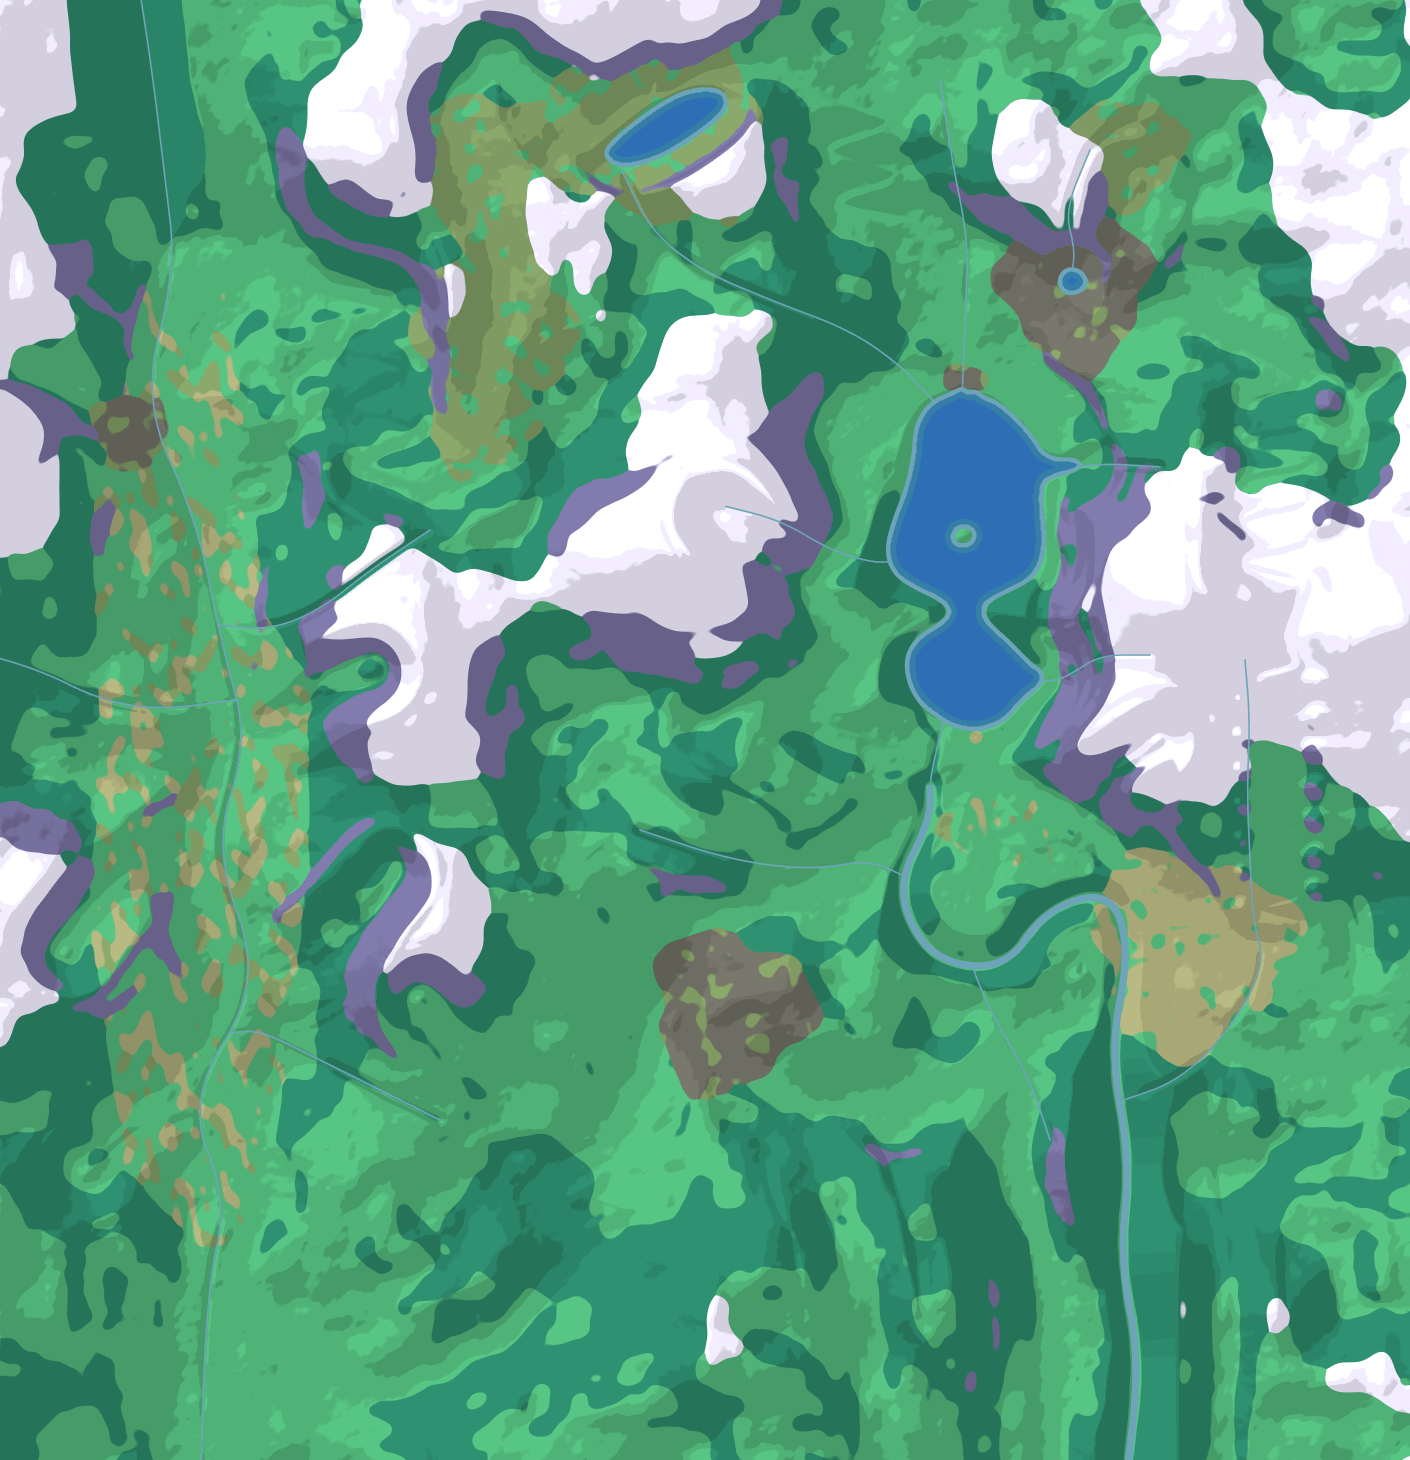
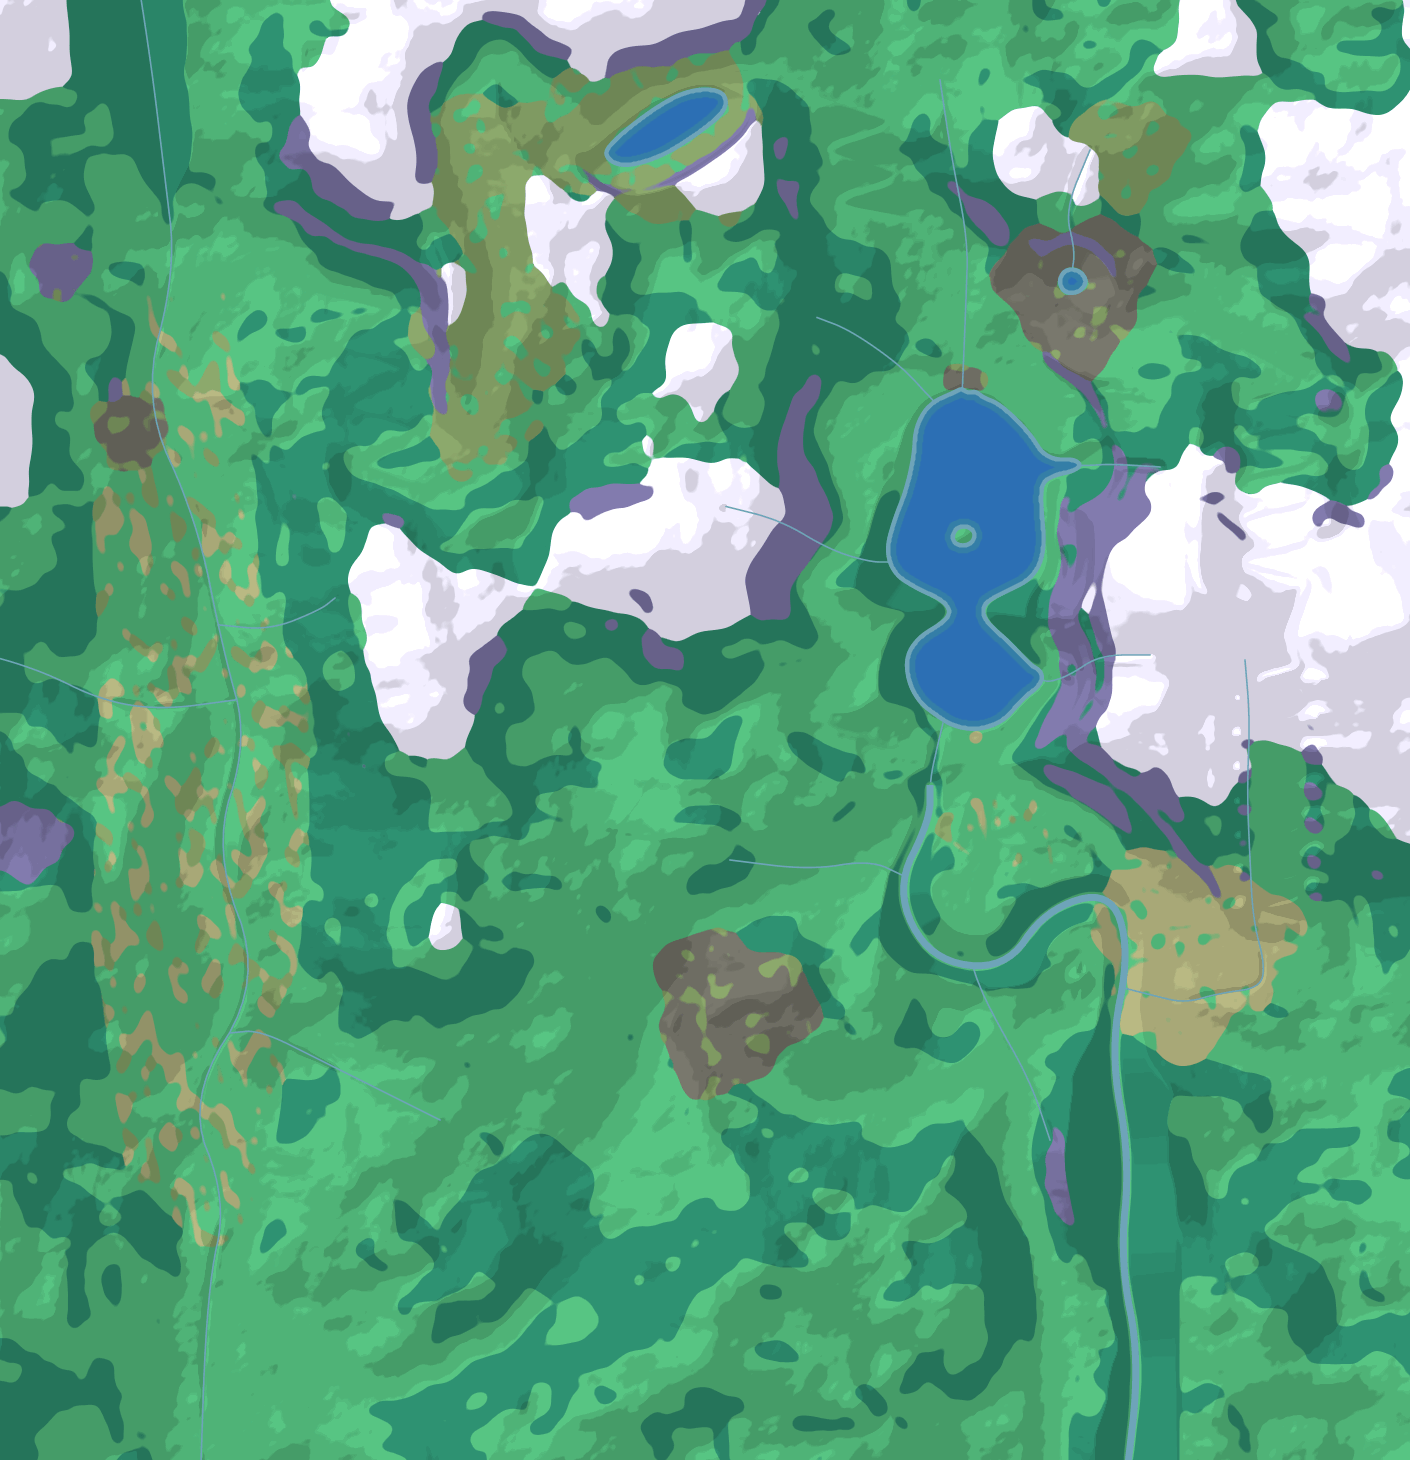
fix(web): no lane straight up a mountain, no stream through a hill, closed snow on the pass slopes (#4597)
Changelog: Farm lanes no longer climb straight up mountains, streams no longer cut through hills, and the snow beside the pass road is closed.

diff --git a/web/src/lib/world/designs.ts b/web/src/lib/world/designs.ts
@@ -473,7 +473,7 @@ const LAND: Feature[] = [
 	// The west side's mountains, behind the terrace; and over the head of the lake, east of the side valley.
 	peak([-2700, 2300], 750, 850),
 	peak([-2400, 4400], 500, 800),
-	// And between them and the ridge, the high valleys they stand over: the alp's stream runs down one.
+	// And between them and the ridge, the high valleys they stand over.
 	peak([-3500, 3500], -300, 800),
 	peak([-3700, 1100], -320, 900),
 	peak([-4300, -900], -200, 800),
@@ -485,7 +485,7 @@ const LAND: Feature[] = [
 	peak([900, -3900], 180, 800),
 	peak([-1700, -1900], 70, 220, [40, 160]),
 
-	// The alp: its lake at 1,838 m under the ridge, and the stream out of it down to the head of the lake.
+	// The alp: its lake at 1,838 m under the ridge, and a stream off the mountain below it down to the head of the lake.
 	{
 		kind: 'lake',
 		level: 1838,
@@ -503,13 +503,11 @@ const LAND: Feature[] = [
 			[-2300, 6900],
 		],
 	},
+	// Off the mountain's flank down to the head of the lake. The alp's lake, in a basin under a rim 60 m and more over its high valley, drains under the ground: a stream drawn from it cut a trench up to 190 m deep through the mountain's shoulder.
 	{
 		kind: 'stream',
 		course: [
-			[-3380, 6290],
-			[-3100, 5700],
-			[-2600, 5300],
-			[-1900, 5000],
+			[-1430, 4825],
 			[-1100, 4700],
 			[-600, 4350],
 			[-330, 4060],
@@ -557,12 +555,11 @@ const LAND: Feature[] = [
 		plain: { bank: 380, slope: 0.35 },
 		gravel: 15,
 	},
-	// Streams off the ranges into it.
+	// Streams off the ranges into it, each from under the range's last shoulder: one drawn from behind it cut a trench 160 m deep through it.
 	{
 		kind: 'stream',
 		course: [
-			[-5300, 2700],
-			[-5900, 2300],
+			[-6250, 2020],
 			[-6400, 1900],
 			[-6900, 1700],
 			[-7400, 1750],
@@ -599,10 +596,12 @@ const LAND: Feature[] = [
 			[2900, -600],
 			[2930, -1200],
 			[3050, -1650],
-			[2700, -2300],
-			[2200, -2800],
-			[1650, -3000],
-			[1450, -3050],
+			// Square under the valley road, then down the dry valley's low side and over its sill into the river: run on south-west, it cut through the hill between them in a trench 120 m deep.
+			[3000, -1880],
+			[2600, -1930],
+			[2250, -2030],
+			[1950, -1960],
+			[1640, -1880],
 		],
 	},
 	// Off both of the lake's walls, white where they are steep, under the road and into the lake.
@@ -628,7 +627,7 @@ const LAND: Feature[] = [
 	{
 		kind: 'stream',
 		course: [
-			// Its spring below the lane's end, not under the bank it stands on.
+			// Its spring on the terrace's alp, not under the bank of the lane that once climbed to it.
 			[-2340, 2935],
 			[-1800, 2800],
 			[-1300, 2500],
@@ -648,11 +647,10 @@ const LAND: Feature[] = [
 			[25, 4150],
 		],
 	},
-	// Off the hills into the river: under the gorge road.
+	// Off the hills into the river: under the gorge road. From the hills' foot: from behind them it ran level through them.
 	{
 		kind: 'stream',
 		course: [
-			[-3200, -300],
 			[-2300, -600],
 			[-1500, -700],
 			[-900, -600],
@@ -855,40 +853,18 @@ const MAP = {
 			{ x: -7380, y: -5800, ele: 1310, r: 0 },
 			{ x: -7250, y: -6800, ele: 1302, r: 0 },
 		],
-		// Gravel: up the Kettental to its head, and farm tracks across its fields, to its farms and over its river.
-		lane(
-			[-7000, 5450],
-			[-7050, 6150],
-			[-7350, 7050],
-			[-7700, 7800],
-			[-7900, 8300],
-		),
-		lane([-7950, 4000], [-8450, 3900], [-9000, 4250], [-9800, 4450]),
-		lane([-6950, 3060], [-7300, 2950], [-7700, 2850], [-8050, 2650]),
-		lane([-7350, 600], [-6800, 760], [-6300, 1150], [-5850, 1300]),
-		lane([-7350, 600], [-8000, 350], [-8600, 500], [-9800, 250]),
-		lane([-7700, -500], [-8400, -800], [-8950, -1550]),
-		lane([-7500, -3000], [-8200, -3250], [-8750, -3750]),
-		// Forest roads up the valley's sides and off the climb back to the plateau.
-		lane([-7200, -1800], [-6600, -1700], [-6100, -1200], [-5700, -700]),
-		lane([-3500, -3400], [-4100, -3050], [-4800, -2700], [-5400, -2000]),
-		// Over the plateau: south off the gorge road, and north off its way home.
-		lane([-1500, -3100], [-1300, -3800], [-1000, -4600], [-800, -6900]),
-		lane([-1800, -1000], [-2200, -500], [-2900, -200], [-3500, 300]),
+		// Gravel lanes, each ending where the land steepens past what a farm track climbs (designed.test.ts: none steeper than LANE_GRADE): Wattalp's valleys are narrow and their sides steep, and a lane run on drove straight up them, one to the snow under the col.
+		// A forest road into the foot of the Kettental's side.
+		lane([-7200, -1800], [-6880, -1740]),
 		// By the village: out through its fields, and down to its beach.
 		lane([300, -350], [750, -480], [1100, -650]),
 		lane([450, 590], [260, 620], [90, 650]),
-		// A farm lane north off the valley road.
-		lane([1250, -200], [1500, 250], [2000, 600]),
-		// Up from the terrace to its alp, and down to the west headland's shore.
-		lane([-1500, 2100], [-2000, 2400], [-2400, 2900]),
-		lane([-900, 1500], [-600, 1700], [-350, 1850]),
-		// Across the side valley from the Kettental road to the col's, over the delta's stream.
-		lane([-180, 5350], [150, 5450], [500, 5150], [550, 4955]),
-		// Up the north valley's forest, through the dry valley, and on up the alp.
-		lane([1400, 4700], [1600, 5400], [1800, 6200]),
-		lane([2700, -2600], [2500, -3400], [2700, -4300], [2600, -6900]),
-		lane([-3100, 7050], [-3000, 7600], [-2800, 8300]),
+		// Off the terrace towards the west headland's shore, to the farm above the bank.
+		lane([-900, 1500], [-780, 1590]),
+		// Off the Kettental road into the side valley, to the farm by the delta's stream.
+		lane([-180, 5350], [-30, 5400]),
+		// Into the north valley's forest.
+		lane([1400, 4700], [1480, 4990]),
 	],
 	rings: [HUB, HEAD, WEST].map((node) => ({
 		at: [node.x, node.y] as const,

diff --git a/web/src/lib/world/styles.ts b/web/src/lib/world/styles.ts
@@ -153,21 +153,30 @@ const OKLAB = /* glsl */ `
 
 /**
  * Where rock comes through Diorama 3D's snow: where the land's facets (0 to 1)
- * rise over this cut, lower the more a face leans and on a crest. Over gentle
- * ground it stands over every facet, so the snow there is closed: an outcrop
- * on a flat, seen from above, read as a hole down to the stones under it.
+ * rise over this cut, lower the more a face leans past `from` (its up, n.y:
+ * 35°) and on a crest. Up to 35° it stands over every facet, so the snow
+ * there is closed: an outcrop on a flat, seen from above, read as a hole down
+ * to the stones under it, and a road's cut and fill in the snow (1:1.5, 34°)
+ * as stones showing through it. Rock is a crag's, from 45°.
  */
 export const SNOW_ROCK_CUT = {
 	flat: '1.04',
-	lean: '2.4',
+	from: '0.82',
+	lean: '3.4',
 	crest: '0.5',
 } as const;
-/** The lean (|n.xz|) over which a snow face takes the sun's warmth or the shade's lilac: none on a flat, so it is not a patchwork of its faces. */
-export const SNOW_TINT_LEAN = ['0.15', '0.45'] as const;
+/**
+ * The lean (|n.xz|) over which a snow face takes the sun's warmth or the
+ * shade's lilac: none on a flat, so it is not a patchwork of its faces, and
+ * full only on a mountain's wall (44°): a road's cut and fill under it, faces
+ * of 10 to 25° turned every way, read as one sheet, not as pink and lilac
+ * triangles.
+ */
+export const SNOW_TINT_LEAN = ['0.15', '0.7'] as const;
 /** The cut at a face's up (n.y) and crest (0 to 1), as the shader reads it. */
 export const snowRockCut = (up: number, crest = 0) =>
 	+SNOW_ROCK_CUT.flat -
-	(1 - up) * +SNOW_ROCK_CUT.lean -
+	Math.max(0, +SNOW_ROCK_CUT.from - up) * +SNOW_ROCK_CUT.lean -
 	crest * +SNOW_ROCK_CUT.crest;
 
 /**
@@ -235,7 +244,7 @@ export const PIXEL_LAND = /* glsl */ `
 		vec3 tint = mix(vec3(1.0), face > 0.0 ? warm : cool, abs(face) * (face > 0.0 ? 0.16 : 0.3));
 		float near = 1.0 - smoothstep(1200.0, 2000.0, dist);
 		float r = landFacet(pos.xz / 30.0) * 0.72 + landFacet(pos.xz / 11.0 + 17.0) * 0.28;
-		float cut = ${SNOW_ROCK_CUT.flat} - (1.0 - up) * ${SNOW_ROCK_CUT.lean} - crest * ${SNOW_ROCK_CUT.crest};
+		float cut = ${SNOW_ROCK_CUT.flat} - max(${SNOW_ROCK_CUT.from} - up, 0.0) * ${SNOW_ROCK_CUT.lean} - crest * ${SNOW_ROCK_CUT.crest};
 		float fw = fwidth(r) + 1e-4;
 		float rock = max(smoothstep(cut - fw, cut + fw, r) * near, crest * (1.0 - near) * 0.55);
 		float rim = smoothstep(cut - 0.07 - fw, cut - 0.07 + fw, r) * near;
@@ -280,10 +289,11 @@ export const PIXEL_LAND = /* glsl */ `
 		return mix(c, vec3(0.96, 0.95, 0.9), step(0.0, k) * step(pool, 0.7) * (1.0 - smoothstep(35.0, 60.0, dist)));
 	}
 	// Diorama 3D: each cover its own (cover: snow, rock, alpine or dry, bog), flowers in the grass as dots in the world, a hand's width each, near the road.
-	vec3 dioramaLand(vec3 base, vec3 pos, float dist, vec3 n, vec4 cover, float steep, float crest) {
+	// Snow on its own colour (own), not the rock a face from 30° up is painted (base): rock only on a crag from 45°, so a road's cut and fill in the snow is snow.
+	vec3 dioramaLand(vec3 base, vec3 own, vec3 pos, float dist, vec3 n, vec4 cover, float steep, float crest) {
 		float up = n.y;
 		vec3 c = base;
-		if (cover.x > 0.5) return snowLand(c, pos, dist, n, crest);
+		if (cover.x > 0.5) return snowLand(mix(own, mix(uRock, own, 0.18), smoothstep(0.71, 0.5, up)), pos, dist, n, crest);
 		if (cover.y > 0.5 || steep > 0.5) c = rockLand(c, pos, dist, up, cover.y);
 		if (cover.w > 0.5) return moorLand(c, pos, dist);
 		if (cover.z > 0.5) return sparseLand(c, pos, dist);
@@ -393,7 +403,7 @@ export function terrainMaterial(
 				vec3 base = mix(vColor, mix(uRock, vColor, 0.18), steep);
 				// A crest: the ground standing over its neighbours (land.ts shadeOf, carried as vAo), where the wind leaves rock bare.
 				float crest = smoothstep(0.8, 0.97, vAo);
-				if (uDiorama > 0.5) base = dioramaLand(base, vPos, dist, n, vCover, steep, crest);
+				if (uDiorama > 0.5) base = dioramaLand(base, vColor, vPos, dist, n, vCover, steep, crest);
 				vec3 col;
 				if (uImhof > 0.5) {
 					float hs = clamp(dot(n, normalize(vec3(-1.0, 1.4, -1.0))), 0.0, 1.0);
@@ -402,7 +412,9 @@ export function terrainMaterial(
 					float lam = dot(n, uFrom) * 0.5 + 0.5; // half-Lambert, from the sun or, once it has set, the zenith
 					if (uBands > 1.5 || uDiorama > 0.5) {
 						float nb = uBands > 1.5 ? uBands : 4.0; // Diorama 3D: the room's four steps, with soft edges
-						float fw = fwidth(lam) * (1.0 + dist / 800.0); // soft band edges, blurred with distance so far facets never crawl
+						// Soft band edges, blurred with distance so far facets never crawl; never sharper than 0.02 of light, or a face lit
+						// right on an edge speckled between two bands, its normal (from screen derivatives) jittering pixel to pixel.
+						float fw = max(fwidth(lam), 0.02) * (1.0 + dist / 800.0);
 						float q = lam * nb;
 						lam = (floor(q) + smoothstep(0.5 - fw * nb, 0.5 + fw * nb, fract(q))) / nb;
 					} else if (uBands > 0.5) lam = 0.72;

diff --git a/web/src/lib/world/designed.test.ts b/web/src/lib/world/designed.test.ts
@@ -40,6 +40,9 @@ import { BUILD_MS } from './world.test-helper';
  * lies where the story says it does.
  */
 
+/** The steepest a Wattalp gravel lane climbs over 200 m, in percent: a farm track's, not a ski run's. */
+const LANE_GRADE = 15;
+
 const roadOf = async (id: string): Promise<Road> =>
 	(await homeRoute(HOME_ROADS.find((r) => r.id === id)!)).road;
 
@@ -783,12 +786,13 @@ describe('the map’s land', () => {
 	);
 
 	// Wattalp's lanes, and the Valley's on a land of its own: its lanes start on its own loop, which no other loop shares.
+	// Wattalp's lanes climb no steeper than a farm track over any 200 m clear of a mouth, where a lane comes off its road's own bank: one ran straight up the face under the col into the snow. The Valley's rolling hills are left as drawn.
 	it.each([
-		['urnsee', 15],
-		['valley', 8],
+		['urnsee', 5, LANE_GRADE],
+		['valley', 8, Infinity],
 	] as const)(
-		'%s: lays gravel lanes on the land: narrow, with no stop or sign, never beside a road',
-		async (id, least) => {
+		'%s: lays gravel lanes on the land: narrow, with no stop or sign, never beside a road, never straight up a mountain',
+		async (id, least, steepest) => {
 			const route = routeOfRoad(await roadOf(id));
 			const world = generate(route);
 			const lanes = world.sides.filter((s) => s.route.gravel);
@@ -801,6 +805,17 @@ describe('the map’s land', () => {
 				const r = lane.route;
 				expect(ribbonOf(r).width).toBe(GRAVEL_W);
 				expect(stopped(lane, world.sides)).toEqual([null, null]);
+				const [from, to] = [
+					lane.mouths[0] ? 60 : 0,
+					r.length - (lane.mouths[1] ? 60 : 0),
+				];
+				for (let m = from; m + 200 <= to; m += 20) {
+					const a = at(r, m);
+					expect(
+						(Math.abs(at(r, m + 200).ele - a.ele) / 200) * 100,
+						`grade ${Math.round(a.x)}, ${Math.round(-a.z)}`,
+					).toBeLessThanOrEqual(steepest);
+				}
 				for (let m = 0; m <= r.length; m += 20) {
 					const p = at(r, m);
 					// On its land, off its bridges: the field or the hillside 15 m either side lies about as high, no cutting or bank of its own.

diff --git a/web/src/lib/world/terrain-rock.test.ts b/web/src/lib/world/terrain-rock.test.ts
@@ -35,9 +35,29 @@ describe('Diorama 3D’s snow is closed on gentle ground', () => {
 			expect(snowRockCut(up(deg))).toBeGreaterThanOrEqual(1);
 	});
 
-	it('still shows rock on a slope and along a crest', () => {
-		expect(snowRockCut(up(30))).toBeLessThan(0.75);
+	it('lets no rock through a road’s cut or fill in the snow: closed up to 35°', () => {
+		// The earthworks' 1:1.5 is 34°: their faces showed the stones through, in patches and specks.
+		for (const deg of [20, 30, 34, 35])
+			expect(snowRockCut(up(deg))).toBeGreaterThanOrEqual(1);
+	});
+
+	it('still shows rock on a crag and along a crest', () => {
+		expect(snowRockCut(up(45))).toBeLessThan(0.75);
+		expect(snowRockCut(up(60))).toBeLessThan(0);
 		expect(snowRockCut(up(5), 1)).toBeLessThan(snowRockCut(up(5)) - 0.4);
+	});
+
+	it('tints a road’s cut and fill (up to 25°) at most half, a mountain’s wall whole', () => {
+		const [a, b] = SNOW_TINT_LEAN.map(Number);
+		const tint = (deg: number) => {
+			const t = Math.min(
+				1,
+				Math.max(0, (Math.sin((deg * Math.PI) / 180) - a) / (b - a)),
+			);
+			return t * t * (3 - 2 * t);
+		};
+		expect(tint(25)).toBeLessThan(0.5);
+		expect(tint(45)).toBe(1);
 	});
 
 	it('tints no face that lies near flat', () => {
